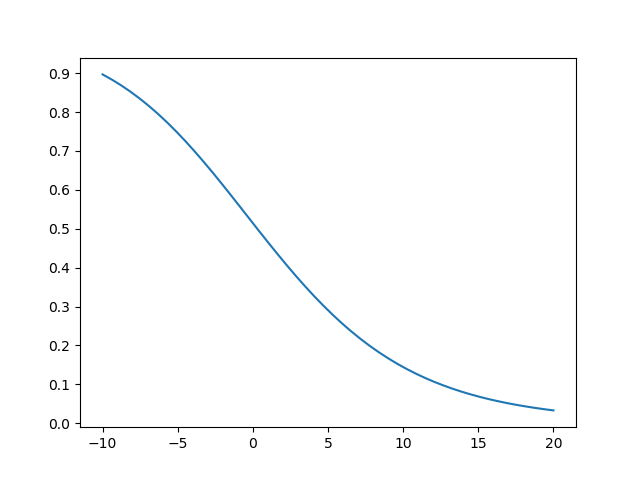
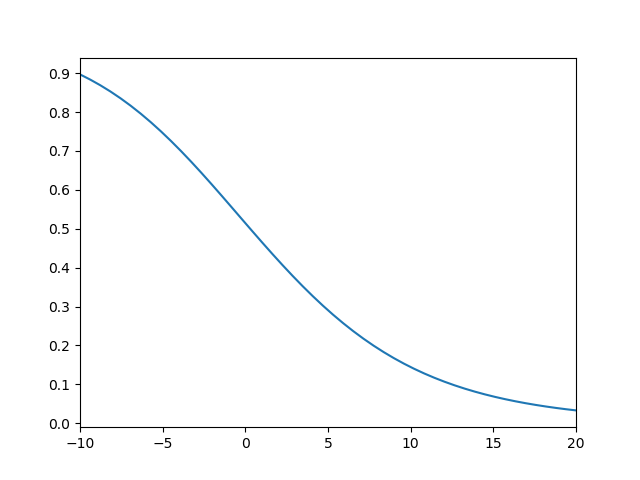
論文實作

diff --git a/A-Tractable-Approach-to-Coverage-and-Rate-in-Cellular-Networks/coverage.py b/A-Tractable-Approach-to-Coverage-and-Rate-in-Cellular-Networks/coverage.py
@@ -38,5 +38,7 @@ if __name__ == "__main__":
             pbar.update(1)
     print(C)
     plt.plot( T_range, C )
+    plt.xlim((-10,20))
+    plt.ylim((0,1))
     plt.yticks(np.arange(0,1,0.1))
     plt.show()
